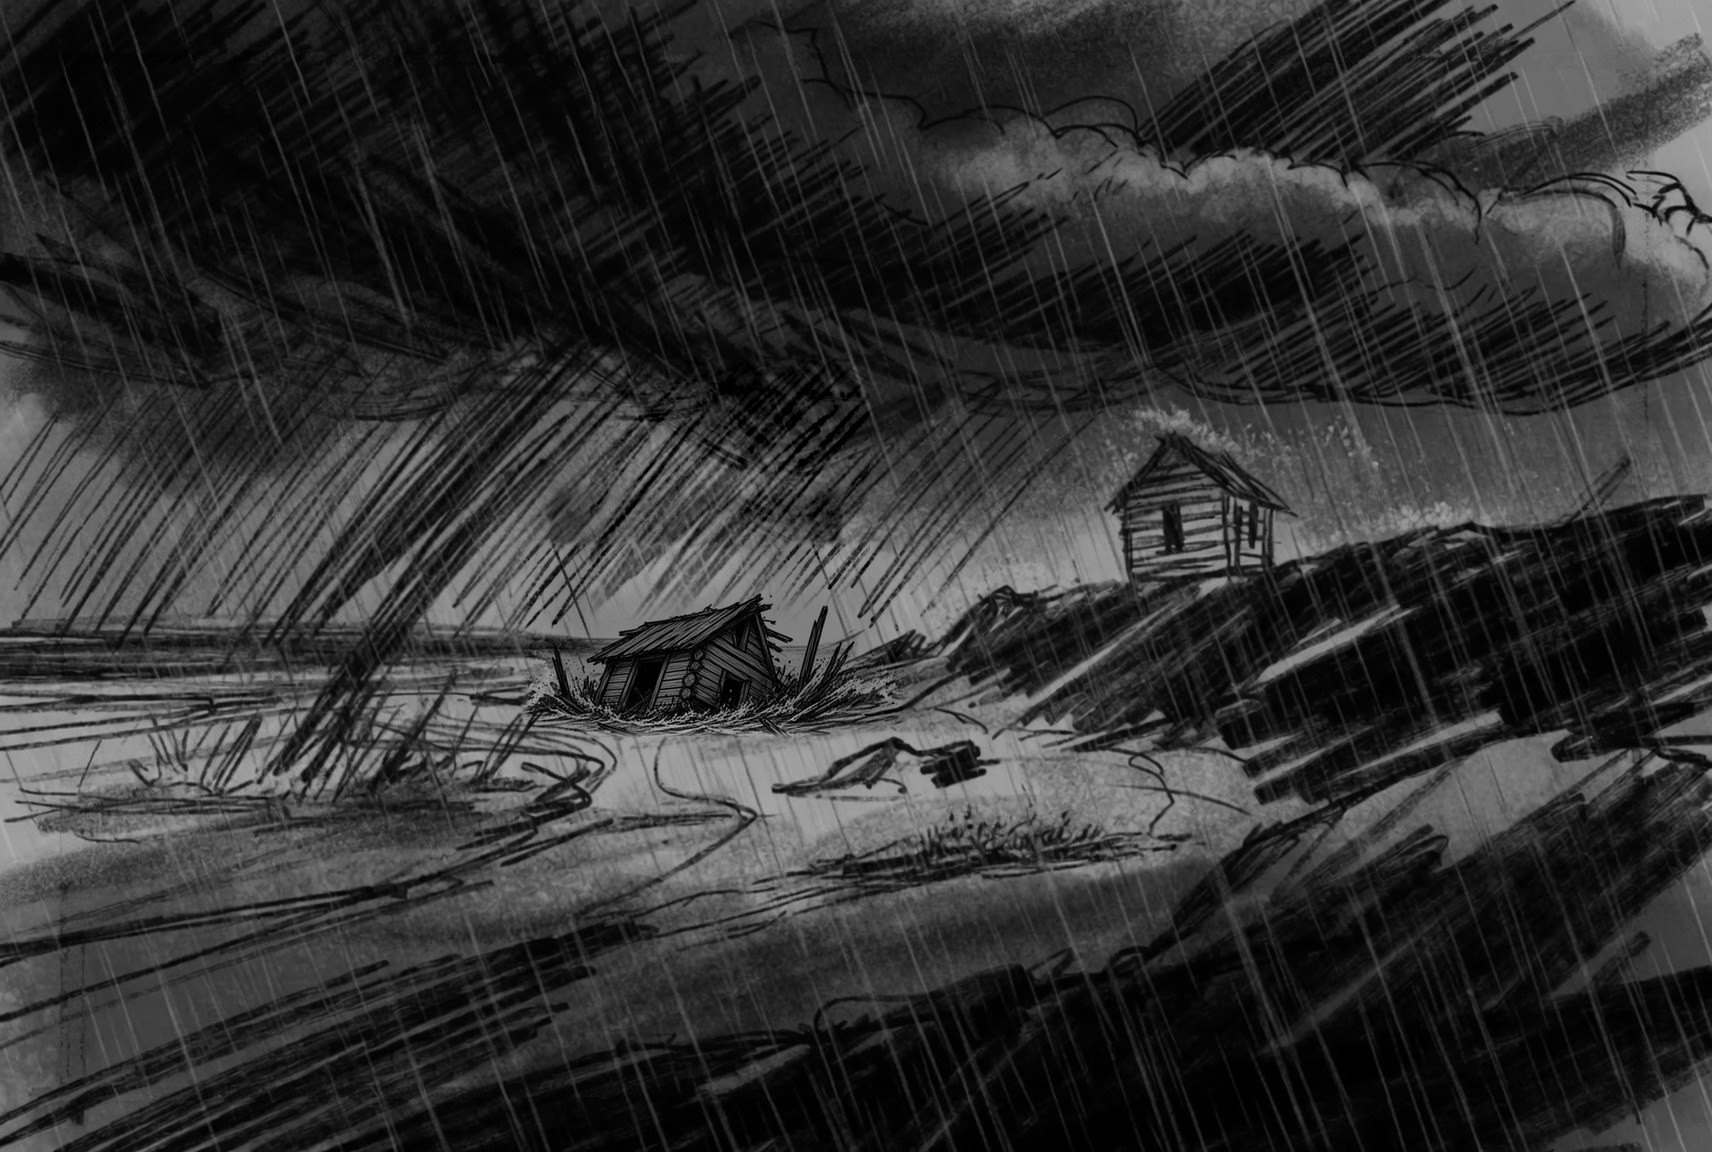
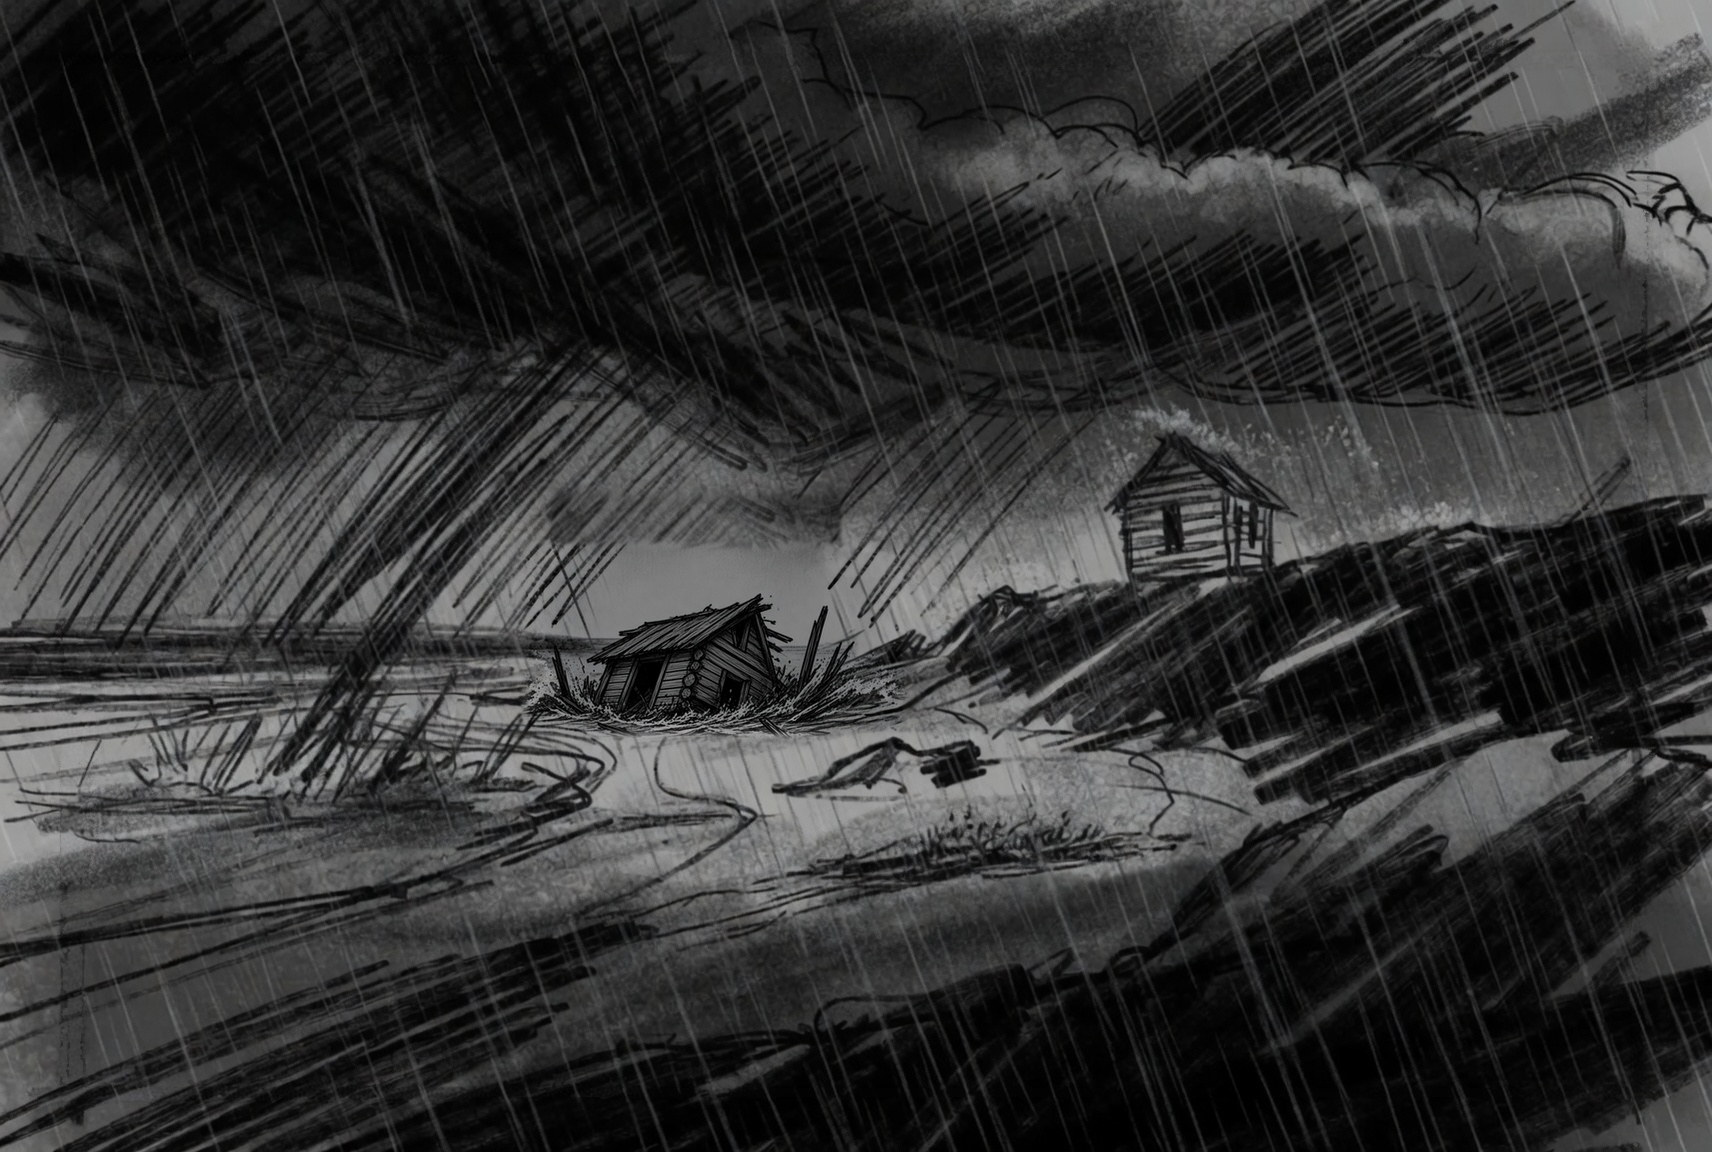
ART-202-02b: drop seq-4 and slow the last dissolve to 0.24
Dave asked to remove the fallen-house still. Restore seq-4 to
origin/main and leave it unused. Crossfade from seq-3 to seq-5
over 0.24, three times a standard fade.

Changed region(s): [[0.3405, 0.3438, 0.5263, 0.5312]]

diff --git a/discipleship/scripts/l202_02_sequence_browser_check.js b/discipleship/scripts/l202_02_sequence_browser_check.js
@@ -1,10 +1,10 @@
 #!/usr/bin/env node
 /**
  * 202-02 wise and foolish builders sequence browser check.
- * Confirms the five scroll frames load with standard holds
- * (frames 3 and 4 held longer), advance in order, keep
- * saved-answer IDs, and do not shift the page at phone and
- * laptop widths. Synthetic navigation only.
+ * Confirms the four live scroll frames load with standard
+ * holds, a slow last dissolve from seq-3 to seq-5, advance
+ * in order, keep saved-answer IDs, and do not shift the page
+ * at phone and laptop widths. Synthetic navigation only.
  */
 'use strict';
 
@@ -19,8 +19,6 @@ var FRAMES = [
     'images/house-rock-seq-2.jpg',
     'images/house-rock-seq-3.jpg',
     'images/house-rock-seq-3.jpg',
-    'images/house-rock-seq-4.jpg',
-    'images/house-rock-seq-4.jpg',
     'images/house-rock-seq-5.jpg'
 ];
 var QUESTION_IDS = [
@@ -32,10 +30,10 @@ var QUESTION_IDS = [
     '202-02-step',
     '202-02-prayer'
 ];
-var STOPS = [0, 0.08, 0.16, 0.24, 0.32, 0.48, 0.56, 0.72, 0.8];
+var STOPS = [0, 0.08, 0.16, 0.24, 0.32, 0.48, 0.72];
 var LAST_STOP = STOPS[STOPS.length - 1];
-var AFTER_LAST = 0.85;
-var SAMPLE_PROGRESS = [0, 0.04, 0.08, 0.12, 0.16, 0.2, 0.24, 0.28, 0.32, 0.4, 0.48, 0.52, 0.56, 0.64, 0.72, 0.76, 0.8, 0.85];
+var AFTER_LAST = 0.78;
+var SAMPLE_PROGRESS = [0, 0.04, 0.08, 0.12, 0.16, 0.2, 0.24, 0.28, 0.32, 0.4, 0.48, 0.56, 0.64, 0.72, 0.78];
 var failed = 0;
 var passed = 0;
 
@@ -55,7 +53,7 @@ async function waitForSequence(page) {
         var root = document.querySelector('#session-2.active [data-parable-sequence]');
         if (!root) return false;
         var frames = Array.prototype.slice.call(root.querySelectorAll('.parable-sequence-frame'));
-        return frames.length === 9 && frames.every(function (img) {
+        return frames.length === 7 && frames.every(function (img) {
             return img.complete && img.naturalWidth > 0 && img.naturalHeight > 0;
         });
     }, { timeout: 20000 });
@@ -160,8 +158,8 @@ function srcMatches(src, expected) {
         await waitForSequence(page);
 
         var rest = await readSequenceState(page);
-        assert(width + ': nine sequence frames render', rest.frameCount === 9, String(rest.frameCount));
-        assert(width + ': sequence stops are 0,0.08,0.16,0.24,0.32,0.48,0.56,0.72,0.8', rest.stops === STOPS.join(','), rest.stops);
+        assert(width + ': seven sequence frames render', rest.frameCount === 7, String(rest.frameCount));
+        assert(width + ': sequence stops are 0,0.08,0.16,0.24,0.32,0.48,0.72', rest.stops === STOPS.join(','), rest.stops);
         assert(width + ': image keeps touchNext', rest.touchNext);
         assert(width + ': old bw/color pair is not rendered', rest.hasBwPair === false);
         FRAMES.forEach(function (expected, idx) {
@@ -171,6 +169,10 @@ function srcMatches(src, expected) {
                 rest.frames[idx] && rest.frames[idx].src
             );
         });
+        var seq4Present = rest.frames.some(function (frame) {
+            return (frame.src || '').indexOf('house-rock-seq-4') !== -1;
+        });
+        assert(width + ': fallen-house seq-4 is not in the sequence', seq4Present === false);
         var alt = rest.frames[0] && rest.frames[0].alt || '';
         assert(
             width + ': first frame alt mentions tipping and falling into the water',
@@ -239,13 +241,25 @@ function srcMatches(src, expected) {
         }
         var used = {};
         order.forEach(function (row) { used[row.dominant] = true; });
-        var lastFrameInAtStop = atLastStop && atLastStop.opacities && atLastStop.opacities[8] >= 0.85;
+        var lastFrameInAtStop = atLastStop && atLastStop.opacities && atLastStop.opacities[6] >= 0.85;
         assert(width + ': frames advance in order as you scroll', monotonic, JSON.stringify(order));
-        assert(width + ': all nine frames become dominant', Object.keys(used).length === 9, JSON.stringify(order));
+        assert(width + ': all seven frames become dominant', Object.keys(used).length === 7, JSON.stringify(order));
         assert(width + ': last frame is nearly opaque at stop ' + LAST_STOP, lastFrameInAtStop, JSON.stringify(atLastStop));
-        assert(width + ': last frame is exclusive just after stop ' + LAST_STOP, afterLastStop && afterLastStop.dominant === 8, JSON.stringify(afterLastStop));
+        assert(width + ': last frame is exclusive just after stop ' + LAST_STOP, afterLastStop && afterLastStop.dominant === 6, JSON.stringify(afterLastStop));
         assert(width + ': last frame is still on screen at the final stop', lastStopVisible, lastStopNote);
         assert(width + ': sequence does not shift or overlap surrounding content', overlapShift === false);
+        var atHoldEnd = order.find(function (row) { return row.progress === 0.48; });
+        var midDissolve = order.find(function (row) { return row.progress === 0.56; });
+        var lateDissolve = order.find(function (row) { return row.progress === 0.64; });
+        var seq3AtHold = atHoldEnd && atHoldEnd.opacities && atHoldEnd.opacities[4] >= 0.85 && atHoldEnd.opacities[6] < 0.15;
+        var seq5Mid = midDissolve && midDissolve.opacities && midDissolve.opacities[6];
+        var seq5Late = lateDissolve && lateDissolve.opacities && lateDissolve.opacities[6];
+        assert(width + ': seq-3 still holds at 0.48 before the last dissolve', seq3AtHold, JSON.stringify(atHoldEnd));
+        assert(width + ': last dissolve is underway at 0.56', seq5Mid > 0.2 && seq5Mid < 0.5, JSON.stringify(midDissolve));
+        assert(width + ': last dissolve is further along at 0.64', seq5Late > 0.55 && seq5Late < 0.85, JSON.stringify(lateDissolve));
+        if (width === 390) {
+            assert('390: last dissolve spans 0.24 from seq-3 to seq-5', seq5Mid < seq5Late, 'mid=' + seq5Mid + ' late=' + seq5Late);
+        }
 
         await page.close();
     }

diff --git a/discipleship/scripts/lesson-image-assets.js b/discipleship/scripts/lesson-image-assets.js
@@ -1190,7 +1190,7 @@
     "images/house-rock-seq-4.jpg": {
         "width": 1712,
         "height": 1152,
[2 lines of base64/hex data omitted]
         "variants": [
             {
                 "src": "images/optimized/house-rock-seq-4-640.webp",

diff --git a/discipleship/project-management/logs/2026-11-12-ART-202-02b-grok.md b/discipleship/project-management/logs/2026-11-12-ART-202-02b-grok.md
@@ -4,17 +4,15 @@ Date: 2026-11-12. Owner: Grok. Branch: `cursor/art-202-02-house-timing`. Status:
 
 ## Why
 
-Dave asked that the 202-02 wise and foolish builders sequence not change too fast on a phone. The renderer crossfades between stops, so a frame holds still only when it is listed twice. This packet retimes the existing five frames to the new standard: each crossfade takes 0.08 of scroll progress, a normal frame holds 0.08, and a key story moment holds 0.16. Frames 3 (house breaking) and 4 (house fallen) are the key moments. The rain fill on `house-rock-seq-4.jpg` was already on this branch.
+Dave asked that the 202-02 wise and foolish builders sequence not change too fast on a phone. The renderer crossfades between stops, so a frame holds still only when it is listed twice. After the first preview, Dave asked to drop the fallen-house still (seq-4) because the square patch in the sky looks wrong, and to make the last dissolve from the breaking house (seq-3) to the calm beach with wood (seq-5) three times a standard crossfade (0.24).
 
 ## What changed
 
 1. **Claim:** ART-202-02b row on TASKS.md in the first commit, owner Grok / `cursor/art-202-02-house-timing`.
-2. **Lesson JSON (`data/202-02.json`):** sequence is now `[seq-1, seq-1, seq-2, seq-2, seq-3, seq-3, seq-4, seq-4, seq-5]` with stops `[0, 0.08, 0.16, 0.24, 0.32, 0.48, 0.56, 0.72, 0.8]`. Alt text and `touchNext` kept. No prose, questions, widgets, or saved-answer IDs changed. IDs stay `202-02-1`, `202-02-2`, `202-02-forgive`, `202-02-hand`, `202-02-key`, `202-02-step`, `202-02-prayer`.
-3. **`story-image.md`:** in the sequence section, the standard scroll timing sentence, plus the 202-02 preset and inventory row. Edit kept small because open PRs #181, #186, and #187 also touch this file.
-4. **Optimizer (`node scripts/build_lesson_images.js`):** ran after `npm ci`. Exit 0. Regenerated WebP copies of the filled seq-4 original. `scripts/lesson-image-assets.js` hash updated by the script, not by hand.
-   - `images/optimized/house-rock-seq-4-640.webp` (60796 bytes)
-   - `images/optimized/house-rock-seq-4-1280.webp` (152628 bytes)
-5. **Browser check:** `scripts/l202_02_sequence_browser_check.js` now expects nine sequence entries and the new stops. Sample points were tightened so each hold is visited.
+2. **Lesson JSON (`data/202-02.json`):** sequence is `[seq-1, seq-1, seq-2, seq-2, seq-3, seq-3, seq-5]` with stops `[0, 0.08, 0.16, 0.24, 0.32, 0.48, 0.72]`. Seq-4 is not in the sequence. The last dissolve from seq-3 to seq-5 spans 0.24. Alt text left as it was (it does not treat a lying-fallen house as its own still). `touchNext` kept. No prose, questions, widgets, or saved-answer IDs changed. IDs stay `202-02-1`, `202-02-2`, `202-02-forgive`, `202-02-hand`, `202-02-key`, `202-02-step`, `202-02-prayer`.
+3. **`story-image.md`:** standard scroll timing sentence, including that a final resolving dissolve may run 0.24 (three times the standard crossfade) when Dave wants a slow ending, plus the 202-02 preset and inventory row. Seq-4 is listed unused.
+4. **Seq-4 original:** `images/house-rock-seq-4.jpg` restored to the `origin/main` bytes so this PR no longer changes that file. The file stays in the repo unused. `npm ci` then `node scripts/build_lesson_images.js` rebuilt its WebP copies to match main. `scripts/lesson-image-assets.js` hash came from the script, not a hand edit.
+5. **Browser check:** `scripts/l202_02_sequence_browser_check.js` expects seven sequence entries, the new stops, no seq-4, and a slow last dissolve (seq-5 opacity about 0.33 at 0.56 and about 0.67 at 0.64).
 
 Login, Firebase config, workflows, index.html, reader/export code, widgets, and sign-in code were not touched.
 
@@ -23,19 +21,19 @@ Login, Firebase config, workflows, index.html, reader/export code, widgets, and 
 Local server: `python3 -m http.server 8765 --bind 127.0.0.1`. Playwright used installed Chrome. Synthetic data only. No credentials printed. Each command used `set -o pipefail` and a named `_EXIT` line.
 
 - `node scripts/build_lesson_images.js`: BUILD_EXIT:0
-- `bash scripts/qa_foundation.sh`: QA_FOUNDATION_EXIT:0. Includes 415 bundled-John checks, 113 asset references, 32 widget iframe checks, 167 export checks, 1176 lesson image checks.
+- `bash scripts/qa_foundation.sh`: QA_FOUNDATION_EXIT:0. Includes 415 bundled-John checks, 111 asset references, 32 widget iframe checks, 167 export checks, 1174 lesson image checks.
 - `node scripts/test_lesson_export.js`: TEST_LESSON_EXPORT_EXIT:0 (`167 check(s) passed.`)
 - `node scripts/test_answer_storage.js`: TEST_ANSWER_STORAGE_EXIT:0 (`64 check(s) passed.`)
-- `node scripts/check_lesson_assets.js`: CHECK_LESSON_ASSETS_EXIT:0 (`PASS: 113 src/image/imageBw/imageColor/imageSequence references resolve to files.`)
-- `node scripts/test_lesson_images.js`: TEST_LESSON_IMAGES_EXIT:0 (`1176 lesson image checks passed.`)
-- `node scripts/l202_02_sequence_browser_check.js`: L202_02_SEQUENCE_BROWSER_CHECK_EXIT:0. 70 passed at 375, 390, and 1280. Nine sequence entries load, advance in order, keep touchNext, keep the seven question IDs, stay on screen at stop 0.8, and do not shift surrounding content.
+- `node scripts/check_lesson_assets.js`: CHECK_LESSON_ASSETS_EXIT:0 (`PASS: 111 src/image/imageBw/imageColor/imageSequence references resolve to files.`)
+- `node scripts/test_lesson_images.js`: TEST_LESSON_IMAGES_EXIT:0 (`1174 lesson image checks passed.`)
+- `node scripts/l202_02_sequence_browser_check.js`: L202_02_SEQUENCE_BROWSER_CHECK_EXIT:0. 77 passed at 375, 390, and 1280. Seven sequence entries load, seq-4 is absent, frames advance in order, the last dissolve is underway at 0.56 (seq-5 opacity 0.333) and further along at 0.64 (0.669), seq-5 is nearly opaque at 0.72 and still on screen.
 
-Phone check at 390px: frames advance in order. Frame 3 (sand house tipping) is still the same picture at progress 0.36 and 0.44. Frame 4 (house fallen, rain filled in above it) is still the same picture at progress 0.60 and 0.68. Seq-5 is on screen at 0.8. A slow scroll through the same viewport confirmed the longer holds on frames 3 and 4.
+Phone check at 390px: seq-3 (tipping house) still holds at 0.48. The dissolve to seq-5 is visible at 0.56 and 0.64, with no fallen-house still in between. Seq-5 (calm beach with wood) is on screen at 0.72.
 
 Not run: real iPhone/Safari. No merge and no deploy. Stop at REVIEW. Dave's personal art approval remains pending.
 
 ## Handoff
 
-Changed files: `data/202-02.json`, `story-image.md`, `scripts/l202_02_sequence_browser_check.js`, `scripts/lesson-image-assets.js`, `images/optimized/house-rock-seq-4-640.webp`, `images/optimized/house-rock-seq-4-1280.webp`, `project-management/TASKS.md`, this log. The seq-4 original rain fill was already on the branch.
+Changed files: `data/202-02.json`, `story-image.md`, `scripts/l202_02_sequence_browser_check.js`, `project-management/TASKS.md`, this log. Seq-4 original and its WebP copies match `origin/main` and stay unused.
 
 Remaining work: review, then Dave's merge. Stop at REVIEW.

diff --git a/discipleship/story-image.md b/discipleship/story-image.md
@@ -102,7 +102,7 @@ The scroll engine measures `progress` from `0` to `1` as the top of the image bl
 - **`progress = 0` (`fadeStartY`):** Image top is at **40% down** the visible content area (`contentTop + visibleHeight * 0.40`).
 - **`progress = 1` (`fadeEndY`):** Image top has scrolled to **22% above** the top bar (`contentTop + visibleHeight * -0.22`).
 
-Standard scroll timing: each crossfade spans 0.08 of scroll progress, each frame holds 0.08 by listing it twice, key story frames hold 0.16, and the last frame should arrive by about 0.8 so it is reached while the image is still on a phone screen.
+Standard scroll timing: each crossfade spans 0.08 of scroll progress, each frame holds 0.08 by listing it twice, key story frames hold 0.16, a final resolving dissolve may run 0.24 (three times the standard crossfade) when Dave wants a slow ending, and the last frame should arrive by about 0.8 so it is reached while the image is still on a phone screen.
 
 Important rule for stops: **Finish the final stop by about `0.8`, not at `1.0`.** At `progress = 1.0`, the top of the image is already 22% above the top bar. Ending the last stop around `0.8` keeps the final frame on a phone screen with the parable card still visible beneath it.
 
@@ -112,7 +112,7 @@ Important rule for stops: **Finish the final stop by about `0.8`, not at `1.0`.*
 - **3 frames (`201-02` The Family Robe):** `[0, 0.25, 0.45]`
 - **4 frames (`201-06` Creation):** `[0, 0.25, 0.4, 0.65]` (or `[0, 0.18, 0.34, 0.5]`)
 - **5 frames (`201-01` Running Father):** `[0, 0.16, 0.3, 0.44, 0.58]`
-- **9 entries with standard holds (`202-02` Wise Builder):** `[0, 0.08, 0.16, 0.24, 0.32, 0.48, 0.56, 0.72, 0.8]`
+- **7 entries with a slow last dissolve (`202-02` Wise Builder):** `[0, 0.08, 0.16, 0.24, 0.32, 0.48, 0.72]`
 
 ### How the Renderer Animates the Sequence
 
@@ -181,7 +181,7 @@ Optional field: `"frame": true` adds a 1px border (`.block-image-dissolve-framed
 | 201-09 | The Vine and the Branches | **4-Frame Sequence** | `vine-branches-seq-1.jpg` .. `4.jpg` (stops `[0, 0.18, 0.34, 0.5]`) | Live (`touchNext: true`) |
 | 201-10 | Coming to His Senses | B&W -> Color | `prodigal-son-two-brothers-bw.jpg` -> `prodigal-son-two-brothers-color.jpg` | Live (`touchNext: true`) |
 | 202-01 | The Good Samaritan | Single static | `good-samaritan-story.jpg` | Upgrade to sequence or dissolve (`touchNext: true`) |
-| 202-02 | The Wise and Foolish Builders | **9-Stop Sequence** | `house-rock-seq-1.jpg` .. `5.jpg` (stops `[0, 0.08, 0.16, 0.24, 0.32, 0.48, 0.56, 0.72, 0.8]`) | Live sequence |
+| 202-02 | The Wise and Foolish Builders | **7-Stop Sequence** | `house-rock-seq-1.jpg` .. `3.jpg`, `5.jpg` (stops `[0, 0.08, 0.16, 0.24, 0.32, 0.48, 0.72]`; seq-4 unused) | Live sequence |
 | 202-03 | The Early Church | **4-Frame Sequence** | `early-church-seq-1.jpg` .. `4.jpg` (stops `[0, 0.18, 0.34, 0.5]`) | Live (`touchNext: true`) |
 | 202-04 | The Five Farmers in the Field | B&W -> Color | `Farmer-bw.jpeg` -> `Farmer-color.jpg` | Live (`touchNext: true`) |
 | 202-05 | The Pit, the Prison, and the Palace | B&W -> Color | `202-05-joseph-pit-palace-bw.jpg` -> `202-05-joseph-pit-palace-color.jpg` | Live (`touchNext: true`) |

diff --git a/discipleship/project-management/TASKS.md b/discipleship/project-management/TASKS.md
@@ -212,5 +212,5 @@ Plan and standard: [reviews/2026-11-11-series-review.md](reviews/2026-11-11-seri
 | [x] | WIDGET-101-02 | DONE | Claude / claude/widget-romans-road2 / 2026-11-12 | - | Rebuilt the Romans Road widget: road that fills in, four stops ending at Saved with the green shoot, Your part / God's part lines, empty-hands line from the lesson. Old file kept. PR #156 merged 2026-11-12 as e2ade31. Evidence: logs/2026-11-12-WIDGET-101-02-claude.md. |
 | [ ] | QUESTIONS-A-101 | REVIEW | Claude / claude/questions-101 / 2026-11-12 | Batch 2 | Teach-it questions and question trims for 101-01, 101-02, 101-03, 101-05, 101-07, as approved by Dave in chat. PR open, preview on PR. Evidence: logs/2026-11-12-QUESTIONS-A-101-claude.md. |
 | [ ] | ART-RESTORE-203-07 | REVIEW | Claude / claude/restore-sends-72 / 2026-11-12 | Dave's direction | Restore Dave's jesus-sends-72.jpg sketch in 203-07 in place of the generated sunset dissolve. PR #185. |
-| [ ] | ART-202-02b | REVIEW | Grok / cursor/art-202-02-house-timing / 2026-11-12 | L-202-02, Dave request | House sequence rain fill plus standard scroll timing. Sequence `[seq-1, seq-1, seq-2, seq-2, seq-3, seq-3, seq-4, seq-4, seq-5]`, stops `[0, 0.08, 0.16, 0.24, 0.32, 0.48, 0.56, 0.72, 0.8]`. Alt, touchNext, prose, questions, widgets, and IDs unchanged. Foundation QA/export 167/storage 64/assets 113/images 1176 and sequence browser 70 pass, exit 0. 390px check: frames advance in order; frames 3 and 4 hold longer. One PR; stop at REVIEW. Evidence: logs/2026-11-12-ART-202-02b-grok.md. |
+| [ ] | ART-202-02b | REVIEW | Grok / cursor/art-202-02-house-timing / 2026-11-12 | L-202-02, Dave request | Drop seq-4 (sky patch). Sequence `[seq-1, seq-1, seq-2, seq-2, seq-3, seq-3, seq-5]`, stops `[0, 0.08, 0.16, 0.24, 0.32, 0.48, 0.72]`. Last dissolve seq-3 to seq-5 is 0.24. Seq-4 jpg restored to origin/main and left unused. Alt, touchNext, prose, questions, widgets, and IDs unchanged. Foundation QA/export 167/storage 64/assets 111/images 1174 and sequence browser 77 pass, exit 0. 390px: slow last dissolve, no fallen-house still. One PR; stop at REVIEW. Evidence: logs/2026-11-12-ART-202-02b-grok.md. |
 
